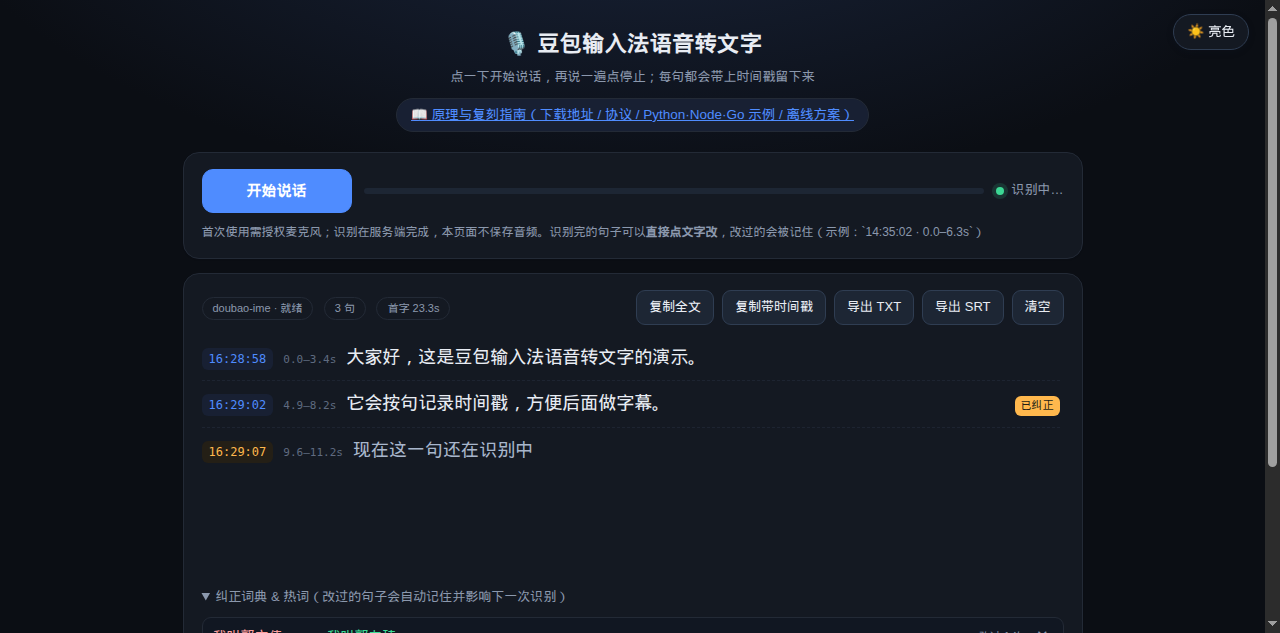
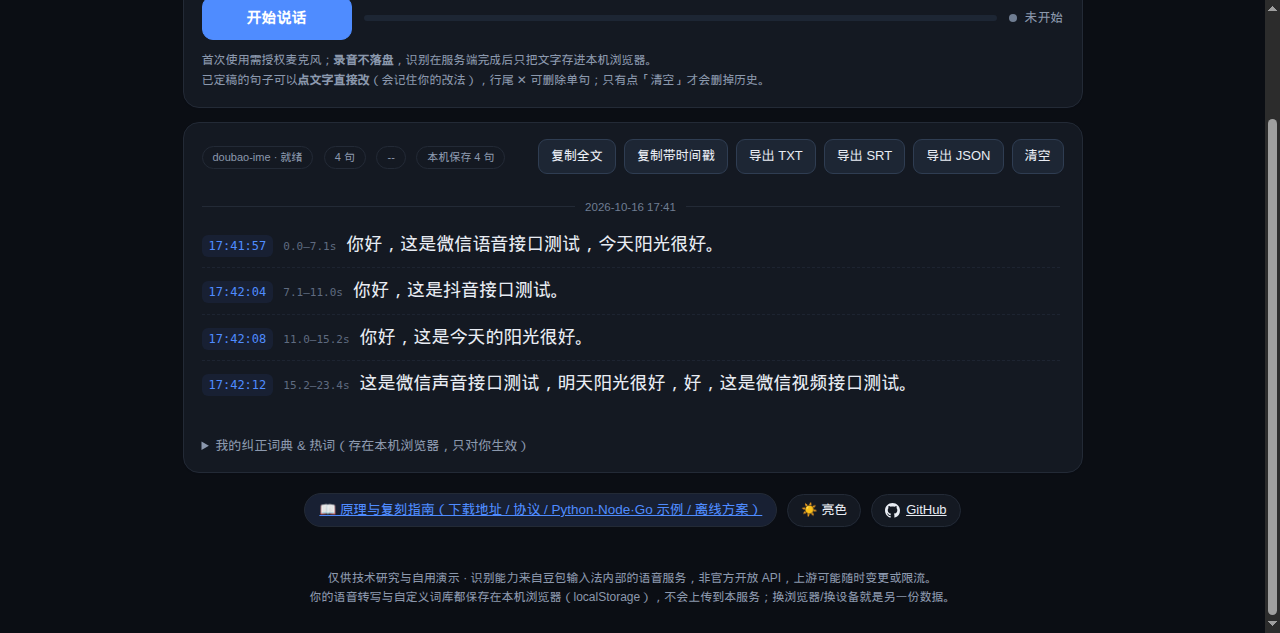
style(web): 顶部三个入口胶囊（原理指南/主题/GitHub）移到内容框下方，顶部更干净

diff --git a/static/index.html b/static/index.html
@@ -57,7 +57,8 @@
   #meter{height:6px;border-radius:3px;background:var(--meter);overflow:hidden;flex:1;min-width:110px}
   #meter i{display:block;height:100%;width:0;background:linear-gradient(90deg,var(--ok),var(--accent));transition:width .08s}
   .hint{color:var(--dim);font-size:12px;margin-top:10px;line-height:1.7}
-  .headrow{display:flex;align-items:center;justify-content:center;gap:10px;flex-wrap:wrap;margin-top:10px}
+  .utility{display:flex;align-items:center;justify-content:center;gap:10px;flex-wrap:wrap;
+           margin-top:2px;padding:4px 0 2px}
   .doclink{display:inline-block;font-size:13.5px;background:var(--chip);border:1px solid var(--line);
            border-radius:999px;padding:5px 14px;transition:.15s;color:var(--accent)}
   .doclink:hover{background:var(--btn-hover);border-color:var(--accent)}
@@ -125,11 +126,6 @@
 <header>
   <h1>🎙 豆包输入法语音转文字</h1>
   <p>点一下开始说话，再说一遍点停止；内容只存在你这台浏览器里，别人看不到、也不会互相覆盖</p>
-  <p class="headrow">
-    <a class="doclink" href="/how" target="_blank" rel="noopener">📖 原理与复刻指南（下载地址 / 协议 / Python·Node·Go 示例 / 离线方案）</a>
-    <button id="themeToggle" data-theme-toggle></button>
-    <a class="ghlink" href="__GITHUB_URL__" target="_blank" rel="noopener" title="在 GitHub 上查看源码"><svg viewBox="0 0 16 16" width="15" height="15" aria-hidden="true" fill="currentColor"><path d="M8 0C3.58 0 0 3.58 0 8c0 3.54 2.29 6.53 5.47 7.59.4.07.55-.17.55-.38 0-.19-.01-.82-.01-1.49-2.01.37-2.53-.49-2.69-.94-.09-.23-.48-.94-.82-1.13-.28-.15-.68-.52-.01-.53.63-.01 1.08.58 1.23.82.72 1.21 1.87.87 2.33.66.07-.52.28-.87.51-1.07-1.78-.2-3.64-.89-3.64-3.95 0-.87.31-1.59.82-2.15-.08-.2-.36-1.02.08-2.12 0 0 .67-.21 2.2.82.64-.18 1.32-.27 2-.27s1.36.09 2 .27c1.53-1.04 2.2-.82 2.2-.82.44 1.1.16 1.92.08 2.12.51.56.82 1.27.82 2.15 0 3.07-1.87 3.75-3.65 3.95.29.25.54.73.54 1.48 0 1.07-.01 1.93-.01 2.2 0 .21.15.46.55.38A8.01 8.01 0 0 0 16 8c0-4.42-3.58-8-8-8Z"/></svg><span>GitHub</span></a>
-  </p>
 </header>
 
 <main>
@@ -179,12 +175,18 @@
       </div>
     </details>
   </section>
+
+  <div class="utility">
+    <a class="doclink" href="/how" target="_blank" rel="noopener">📖 原理与复刻指南（下载地址 / 协议 / Python·Node·Go 示例 / 离线方案）</a>
+    <button id="themeToggle" data-theme-toggle></button>
+    <a class="ghlink" href="__GITHUB_URL__" target="_blank" rel="noopener" title="在 GitHub 上查看源码"><svg viewBox="0 0 16 16" width="15" height="15" aria-hidden="true" fill="currentColor"><path d="M8 0C3.58 0 0 3.58 0 8c0 3.54 2.29 6.53 5.47 7.59.4.07.55-.17.55-.38 0-.19-.01-.82-.01-1.49-2.01.37-2.53-.49-2.69-.94-.09-.23-.48-.94-.82-1.13-.28-.15-.68-.52-.01-.53.63-.01 1.08.58 1.23.82.72 1.21 1.87.87 2.33.66.07-.52.28-.87.51-1.07-1.78-.2-3.64-.89-3.64-3.95 0-.87.31-1.59.82-2.15-.08-.2-.36-1.02.08-2.12 0 0 .67-.21 2.2.82.64-.18 1.32-.27 2-.27s1.36.09 2 .27c1.53-1.04 2.2-.82 2.2-.82.44 1.1.16 1.92.08 2.12.51.56.82 1.27.82 2.15 0 3.07-1.87 3.75-3.65 3.95.29.25.54.73.54 1.48 0 1.07-.01 1.93-.01 2.2 0 .21.15.46.55.38A8.01 8.01 0 0 0 16 8c0-4.42-3.58-8-8-8Z"/></svg><span>GitHub</span></a>
+  </div>
 </main>
 
 <footer>
   仅供技术研究与自用演示 · 识别能力来自豆包输入法内部的语音服务，非官方开放 API，上游可能随时变更或限流。<br>
-  你的语音转写与自定义词库都保存在本机浏览器（localStorage），不会上传到本服务；换浏览器/换设备就是另一份数据。<br>
-  <a class="ghlink" href="__GITHUB_URL__" target="_blank" rel="noopener" style="margin-top:10px"><svg viewBox="0 0 16 16" width="15" height="15" aria-hidden="true" fill="currentColor"><path d="M8 0C3.58 0 0 3.58 0 8c0 3.54 2.29 6.53 5.47 7.59.4.07.55-.17.55-.38 0-.19-.01-.82-.01-1.49-2.01.37-2.53-.49-2.69-.94-.09-.23-.48-.94-.82-1.13-.28-.15-.68-.52-.01-.53.63-.01 1.08.58 1.23.82.72 1.21 1.87.87 2.33.66.07-.52.28-.87.51-1.07-1.78-.2-3.64-.89-3.64-3.95 0-.87.31-1.59.82-2.15-.08-.2-.36-1.02.08-2.12 0 0 .67-.21 2.2.82.64-.18 1.32-.27 2-.27s1.36.09 2 .27c1.53-1.04 2.2-.82 2.2-.82.44 1.1.16 1.92.08 2.12.51.56.82 1.27.82 2.15 0 3.07-1.87 3.75-3.65 3.95.29.25.54.73.54 1.48 0 1.07-.01 1.93-.01 2.2 0 .21.15.46.55.38A8.01 8.01 0 0 0 16 8c0-4.42-3.58-8-8-8Z"/></svg><span>GitHub · 源码与原理文档</span></a>
+  你的语音转写与自定义词库都保存在本机浏览器（localStorage），不会上传到本服务；换浏览器/换设备就是另一份数据。
+  <span style="display:none"><a class="ghlink" href="__GITHUB_URL__" target="_blank" rel="noopener"><svg viewBox="0 0 16 16" width="15" height="15" aria-hidden="true" fill="currentColor"><path d="M8 0C3.58 0 0 3.58 0 8c0 3.54 2.29 6.53 5.47 7.59.4.07.55-.17.55-.38 0-.19-.01-.82-.01-1.49-2.01.37-2.53-.49-2.69-.94-.09-.23-.48-.94-.82-1.13-.28-.15-.68-.52-.01-.53.63-.01 1.08.58 1.23.82.72 1.21 1.87.87 2.33.66.07-.52.28-.87.51-1.07-1.78-.2-3.64-.89-3.64-3.95 0-.87.31-1.59.82-2.15-.08-.2-.36-1.02.08-2.12 0 0 .67-.21 2.2.82.64-.18 1.32-.27 2-.27s1.36.09 2 .27c1.53-1.04 2.2-.82 2.2-.82.44 1.1.16 1.92.08 2.12.51.56.82 1.27.82 2.15 0 3.07-1.87 3.75-3.65 3.95.29.25.54.73.54 1.48 0 1.07-.01 1.93-.01 2.2 0 .21.15.46.55.38A8.01 8.01 0 0 0 16 8c0-4.42-3.58-8-8-8Z"/></svg><span>GitHub · 源码与原理文档</span></a></span>
 </footer>
 <div class="toast" id="toast"></div>
 
